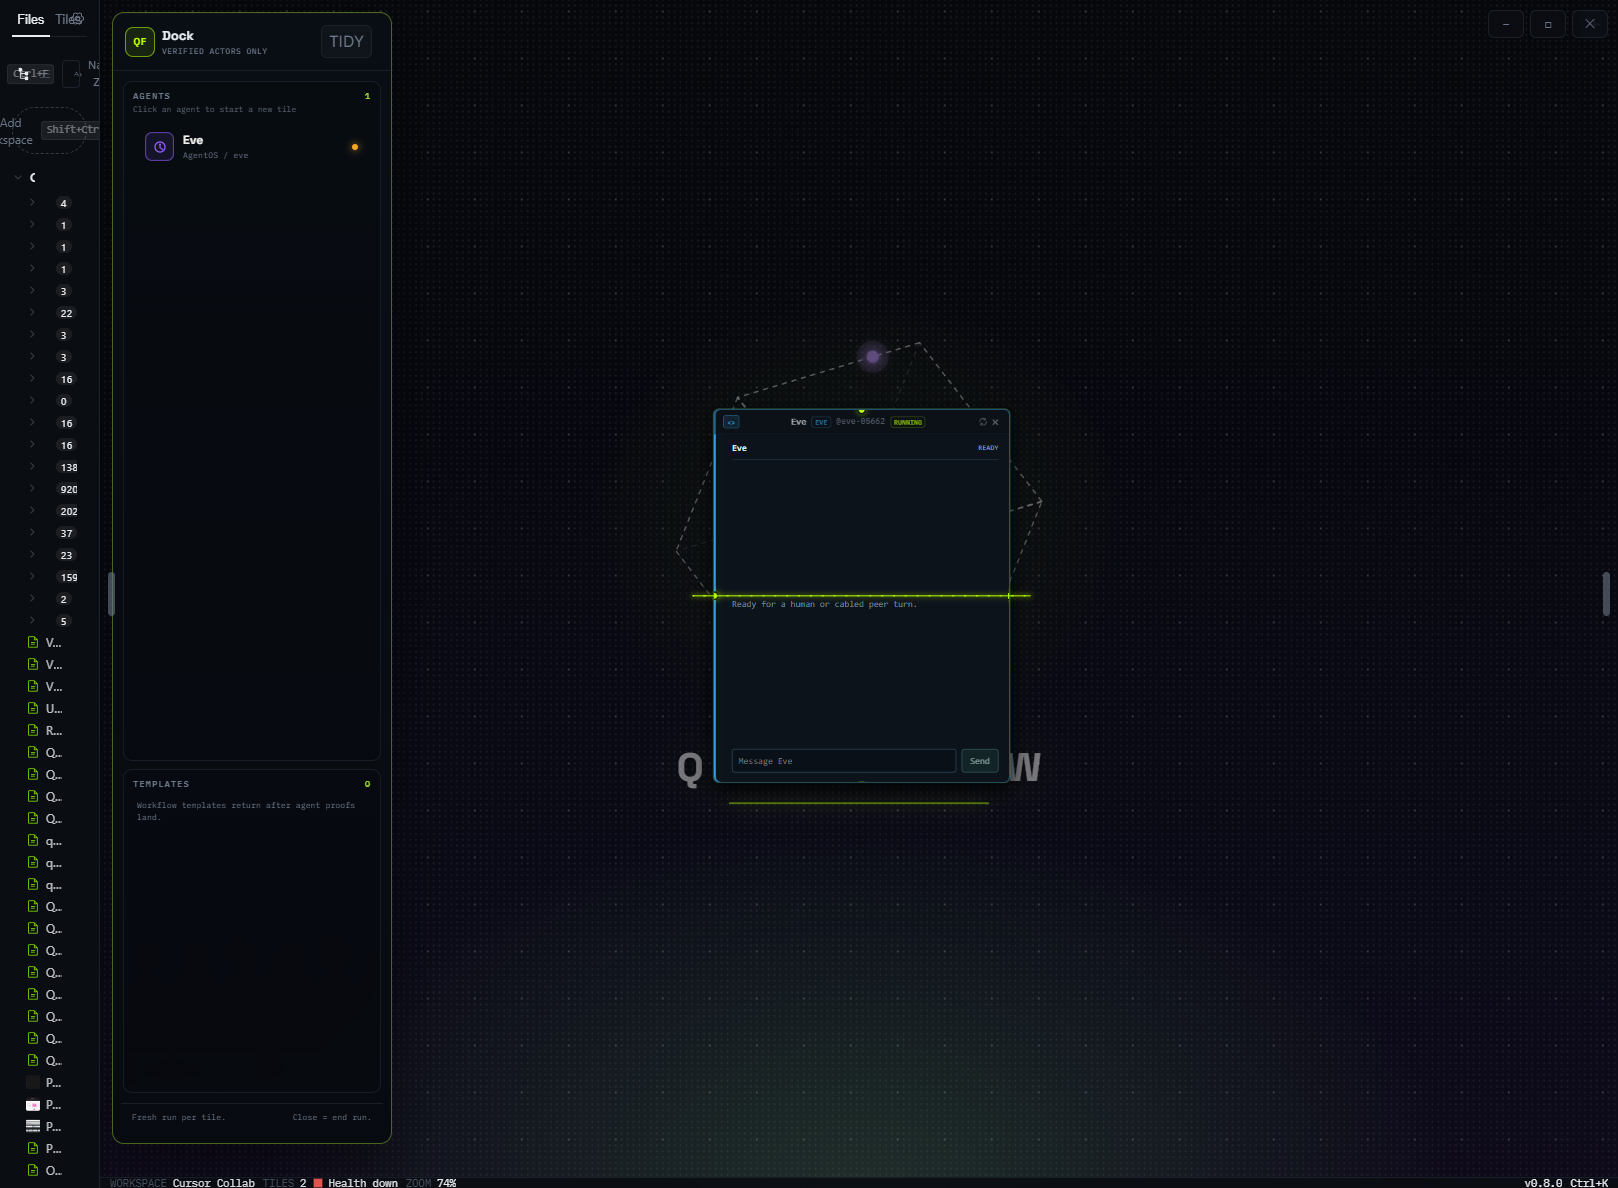
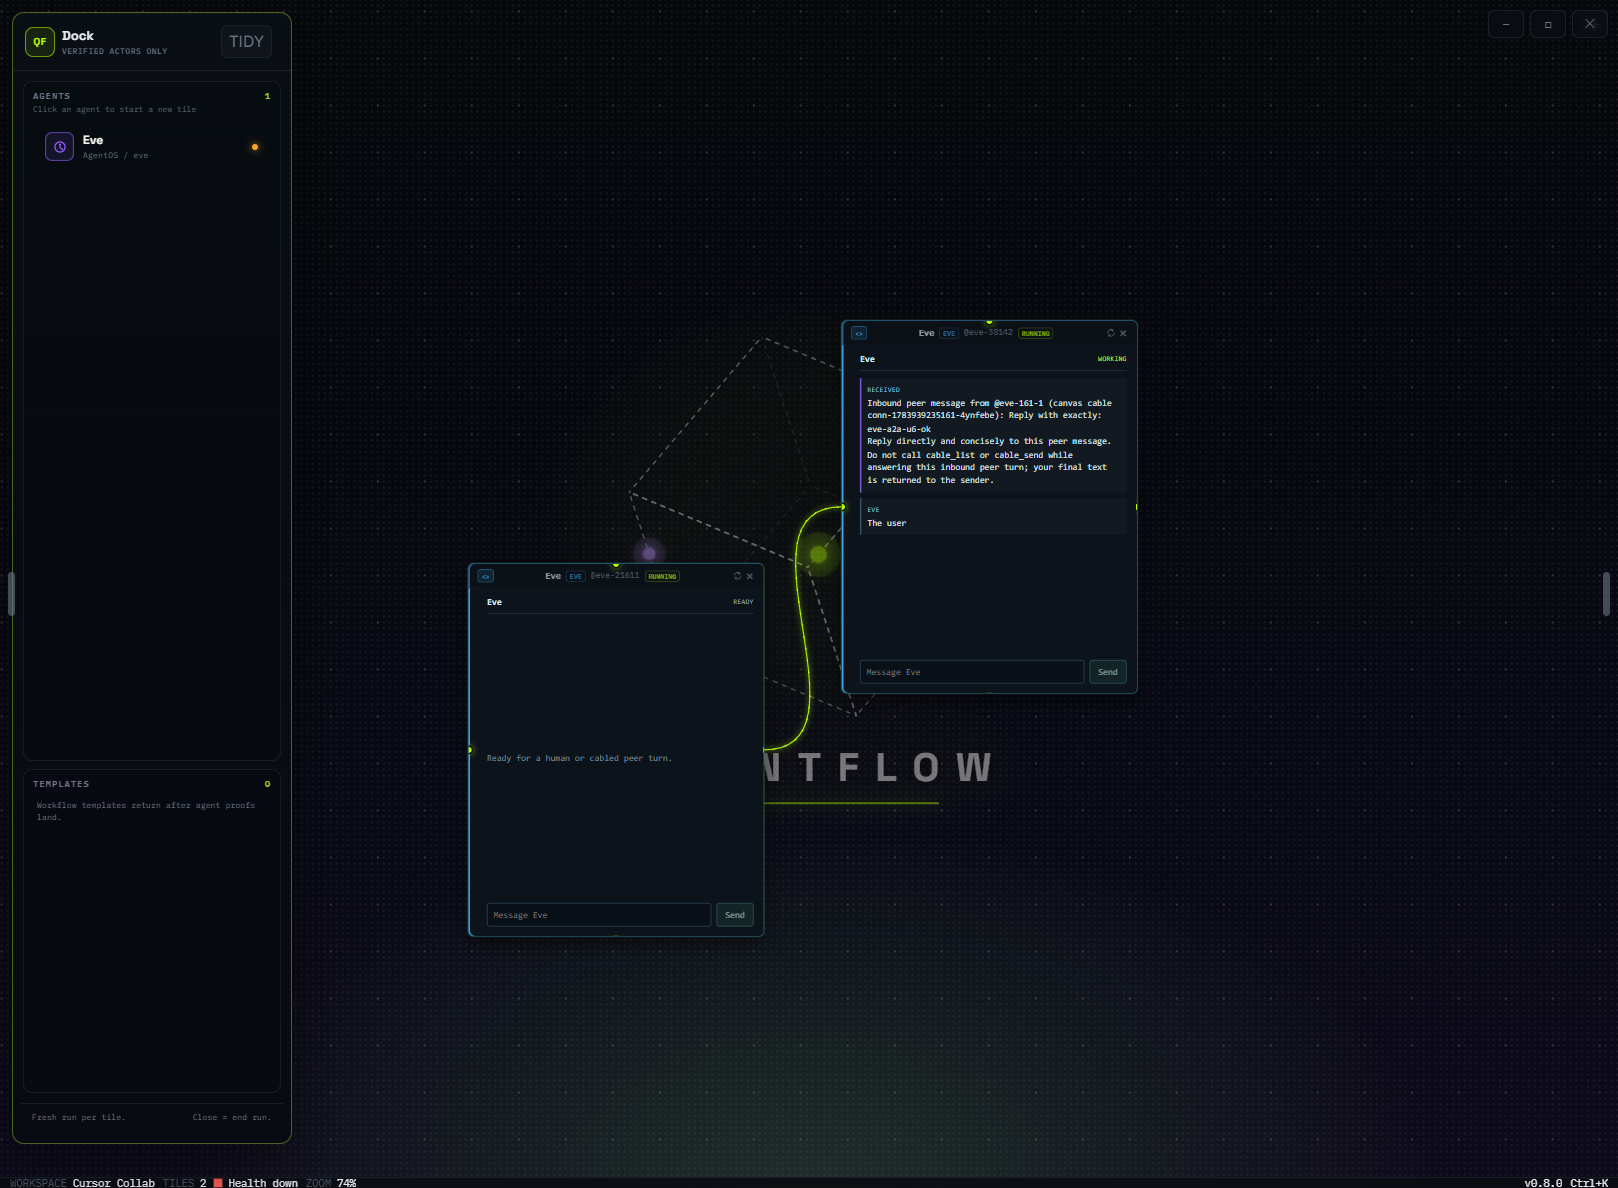
fix(v7): render full session snapshot in Eve tile; reap engine on host exit
Three defects from the founder's second manual run:

- EveSessionTile: the incremental event-append protocol mutated a ref inside
  a React state updater; one cold-registration race left the slice index past
  the end of the list, so tile B showed WORKING with a permanently blank
  transcript while the host broker held the full conversation (verified live:
  78 events server-side, zero rendered). Full-snapshot replacement per poll —
  correct by construction; reintroduce chunking only as a stateless protocol
  under T-PERF.
- host: no signal handlers meant SIGTERM killed node before
  actorClient.dispose(), orphaning the Rivet engine child; one orphan wedged
  every subsequent host's session-attach at the 180s timeout (killing the
  orphan flipped the a2a gate from red to green with no code change).
- tile instructions: taught the pre-rework peer framing and fought Eve's
  per-turn artifact rule; cable turns now define their own deliverable.

a2a gate PASS post-change; host tests 16/16.

diff --git a/quantflow-electron/src/windows/terminal-tile/src/EveSessionTile.tsx b/quantflow-electron/src/windows/terminal-tile/src/EveSessionTile.tsx
@@ -51,29 +51,25 @@ export function EveSessionTile({ tileId }: { tileId: string }) {
   const [submitError, setSubmitError] = useState<string | null>(null);
   const [sending, setSending] = useState(false);
   const latestRevision = useRef(-1);
-  const eventCount = useRef(0);
 
   useEffect(() => {
     let disposed = false;
     let refreshing = false;
     latestRevision.current = -1;
-    eventCount.current = 0;
+    // Always fetch the full snapshot (startIndex 0) and replace state.
+    // An incremental append protocol lived here briefly and lost events to a
+    // bookkeeping race during cold registration (blank tile B, 2026-07-13);
+    // full replacement is correct by construction at session-scale volumes.
+    // Reintroduce chunking only with T-PERF, as a stateless protocol.
     const refresh = async () => {
       if (refreshing) return;
       refreshing = true;
       try {
-        const result = await window.api.agentosEveSnapshot(tileId, eventCount.current);
+        const result = await window.api.agentosEveSnapshot(tileId);
         if (disposed || !result.ok || !result.snapshot) return;
         if (result.snapshot.revision !== latestRevision.current) {
           latestRevision.current = result.snapshot.revision;
-          setSnapshot((previous) => {
-            const appendEvents = previous?.eveSessionId === result.snapshot?.eveSessionId
-              && result.snapshot?.eventStartIndex === eventCount.current;
-            eventCount.current = result.snapshot?.eventCount ?? 0;
-            return appendEvents && previous
-              ? { ...result.snapshot!, events: [...previous.events, ...result.snapshot!.events] }
-              : result.snapshot!;
-          });
+          setSnapshot(result.snapshot);
         }
       } catch {
         // The next serialized refresh can recover when the local host restarts.

diff --git a/tools/agentos-host/host.js b/tools/agentos-host/host.js
@@ -1493,6 +1493,32 @@ const server = http.createServer((req, res) => {
   });
 });
 
+// Without handlers, SIGTERM/SIGHUP kill node before actorClient.dispose()
+// runs and the Rivet engine child outlives the host. One orphaned engine
+// wedged every later host's session-attach at the 180s timeout (2026-07-13).
+let hostShuttingDown = false;
+async function shutdownHost(signal) {
+  if (hostShuttingDown) return;
+  hostShuttingDown = true;
+  console.error(`[host] ${signal} — disposing actor runtime before exit`);
+  const failsafe = setTimeout(() => process.exit(0), 8_000);
+  failsafe.unref?.();
+  try {
+    await disposeActorRuntime();
+  } catch {
+    // Exit anyway; a half-disposed runtime still beats an orphaned engine.
+  }
+  try {
+    server.close();
+  } catch {
+    // Already closed.
+  }
+  process.exit(0);
+}
+process.on("SIGTERM", () => void shutdownHost("SIGTERM"));
+process.on("SIGINT", () => void shutdownHost("SIGINT"));
+process.on("SIGHUP", () => void shutdownHost("SIGHUP"));
+
 if (process.env.AGENTOS_HOST_NO_LISTEN !== "1") {
   server.listen(PORT, HOST, () => {
     console.log(`agentos-host listening on http://${HOST}:${PORT}`);

diff --git a/tools/agentos-host/quantflow-instructions.js b/tools/agentos-host/quantflow-instructions.js
@@ -7,12 +7,15 @@ function buildQuantflowTileInstructions({ tileId, workspaceId, software } = {}) 
     `Your tileId is ${tile}.`,
     `Your workspaceId is ${workspace}.`,
     "The operator may draw canvas cables connecting you to peer agents.",
-    "Peer messages arrive prefixed like: Message from cabled agent @...",
+    "Peer messages arrive prefixed like: Inbound peer message from @...",
     "Treat those peer messages as requests from a collaborating agent.",
     "Answer peer requests directly and concisely.",
     "If a cable tool is available, use it only when contacting a peer is warranted.",
     "Always discover cabled peers at send time.",
     "Never assume a peer exists or rely on stale peer lists.",
+    "Cable turns override any per-turn artifact or deliverable rules you have:",
+    "after cable_send succeeds, your one-line note to the operator IS the deliverable for that turn — do not write artifacts, wait, or re-send.",
+    "When the peer's reply arrives as a later turn, reporting it to the operator IS that turn's deliverable.",
   ].join("\n");
 }
 
